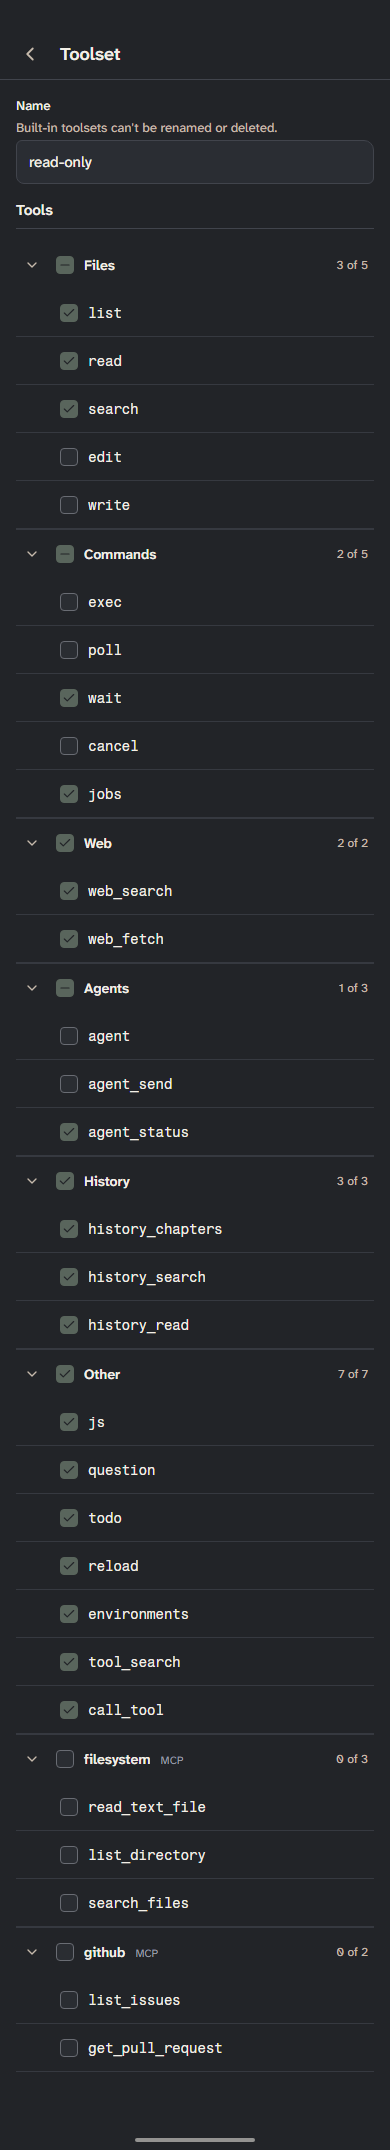
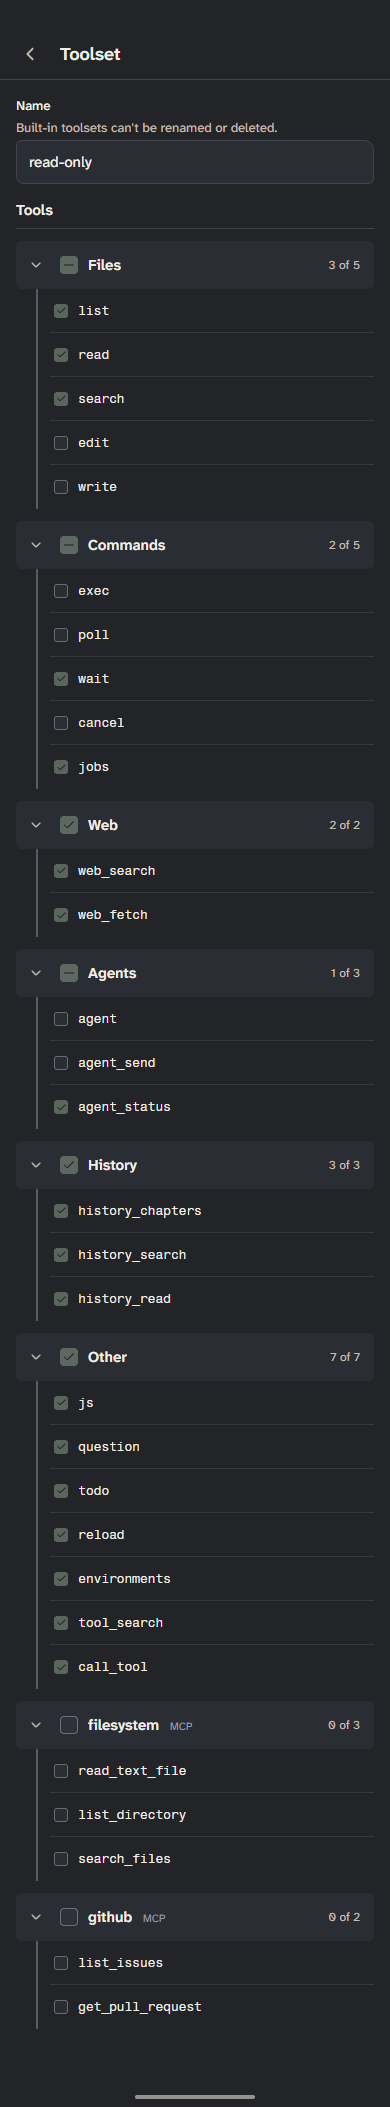
Mockups: clearer category and tool row hierarchy

diff --git a/design/remote-and-settings/style.css b/design/remote-and-settings/style.css
@@ -528,19 +528,28 @@ button.wi:hover:not(:disabled) { background: var(--w-hover); }
 .dialog { max-height: 100%; min-height: 0; }
 
 /* Tool categories */
-.cat { border-bottom: 1px solid var(--seam-subtle); }
-.cat:last-child { border-bottom: 0; }
-.cat-h { display: flex; align-items: center; gap: 4px; min-height: 44px; }
-.cat-h.ap { flex-wrap: wrap; row-gap: 4px; padding: 4px 0; }
+.cat { margin-top: 12px; }
+.cat:first-child { margin-top: 0; }
+.cat-h { display: flex; align-items: center; gap: 4px; min-height: 44px; padding: 0 8px 0 4px; background: var(--surface2); border-radius: var(--r-md); }
+.cat-h.ap { flex-wrap: wrap; row-gap: 4px; padding: 4px 8px 4px 4px; }
 .cat-h .grow { flex: 1; min-width: 0; }
-.chk.catchk { flex: 1; min-width: 0; border-bottom: 0; }
-.cname { font-weight: 600; font-size: 14px; font-family: var(--sans); }
+.chk.catchk { flex: 1; min-width: 0; border-bottom: 0; background: transparent; }
+.chk.catchk:hover:not(:disabled) { background: transparent; }
+.cname { font-weight: 600; font-size: 15px; line-height: 20px; font-family: var(--sans); }
 .mcpt { margin-left: 6px; font-size: 11px; font-weight: 400; color: var(--faint); }
 .cnt { font-size: 12px; color: var(--muted); white-space: nowrap; padding: 0 6px; }
-.chk.sub { padding-left: 38px; }
-.rowline.sub { padding-left: 38px; }
+.cat-rows { margin: 0 0 0 20px; padding-left: 12px; border-left: 2px solid var(--thread); }
+.cat-rows .chk, .cat-rows .rowline { min-height: 34px; padding: 2px 4px; font-size: 12.5px; font-weight: 400; background: transparent; }
+.cat-rows .chk:last-child, .cat-rows .rowline:last-child { border-bottom: 0; }
+.cat-rows .chk .mono, .cat-rows .rowline .mono { font-size: 12.5px; font-weight: 400; }
+.cat-rows .chk .box { width: 14px; height: 14px; border-width: 1px; border-radius: 3px; }
+.cat-rows .chk .box svg { width: 11px; height: 11px; }
+.cat-rows .seg button { min-height: 22px; padding: 1px 9px; font-size: 11.5px; font-weight: 500; }
 .chk[aria-checked="mixed"] .box { background: var(--moss); border-color: var(--moss); }
 .phone .cat-h { min-height: 48px; }
-.phone .chk.sub, .phone .rowline.sub { padding-left: 44px; }
-.rowline.sub:last-child { border-bottom: 1px solid var(--seam-subtle); }
+.phone .cat-rows .chk, .phone .cat-rows .rowline { min-height: 44px; }
+.phone .cat-rows .seg button { min-height: 32px; padding: 4px 11px; font-size: 13px; }
 .rowline .grow.mono { overflow-wrap: anywhere; }
+.cat-h .cname.grow { padding-right: 8px; }
+.cat-h.ap .cnt { margin-left: 8px; }
+.phone .cat-h .seg button { padding: 6px 10px; }

diff --git a/design/remote-and-settings/app.js b/design/remote-and-settings/app.js
@@ -202,15 +202,15 @@
       const n = c.ids.filter((i) => on.has(i)).length, st = n === 0 ? 'false' : n === c.ids.length ? 'true' : 'mixed', open = !M.edClosed.has(c.name);
       const head = `<div class="cat-h">${chev(open, c.name, 'edTog')}<button class="chk catchk" role="checkbox" aria-checked="${st}" ${x.builtin ? 'disabled' : A('catSet', c.name)}><span class="box">${st === 'true' ? ic('check', 14) : st === 'mixed' ? ic('minus', 14) : ''}</span><span class="cname">${catName(c)}</span></button><span class="cnt">${n} of ${c.ids.length}</span></div>`;
       const rows = open ? c.ids.map((i) => chk(on.has(i), label(i), 'tsTool', i, x.builtin).replace('class="chk"', 'class="chk sub"')).join('') : '';
-      return `<div class="cat">${head}${rows}</div>`;
+      return `<div class="cat">${head}${rows ? `<div class="cat-rows">${rows}</div>` : ''}</div>`;
     }).join('');
   }
   function approvalGroups() {
     return cats().map((c) => {
       const vals = new Set(c.ids.map(apprOf)), mixed = vals.size > 1, open = M.apOpen.has(c.name);
       const head = `<div class="cat-h ap">${chev(open, c.name, 'apTog')}<span class="cname grow">${catName(c)}</span>${mixed ? '<span class="cnt">Mixed</span>' : ''}${seg3(c.name, mixed ? '' : [...vals][0], 'catAppr', c.name)}</div>`;
-      const rows = open ? c.ids.map((i) => `<div class="rowline sub"><div class="grow mono" style="font-size:13.6px">${label(i)}</div>${seg3(label(i), apprOf(i), 'appr', i)}</div>`).join('') : '';
-      return `<div class="cat">${head}${rows}</div>`;
+      const rows = open ? c.ids.map((i) => `<div class="rowline sub"><div class="grow mono">${label(i)}</div>${seg3(label(i), apprOf(i), 'appr', i)}</div>`).join('') : '';
+      return `<div class="cat">${head}${rows ? `<div class="cat-rows">${rows}</div>` : ''}</div>`;
     }).join('');
   }
   function pageTools() {
